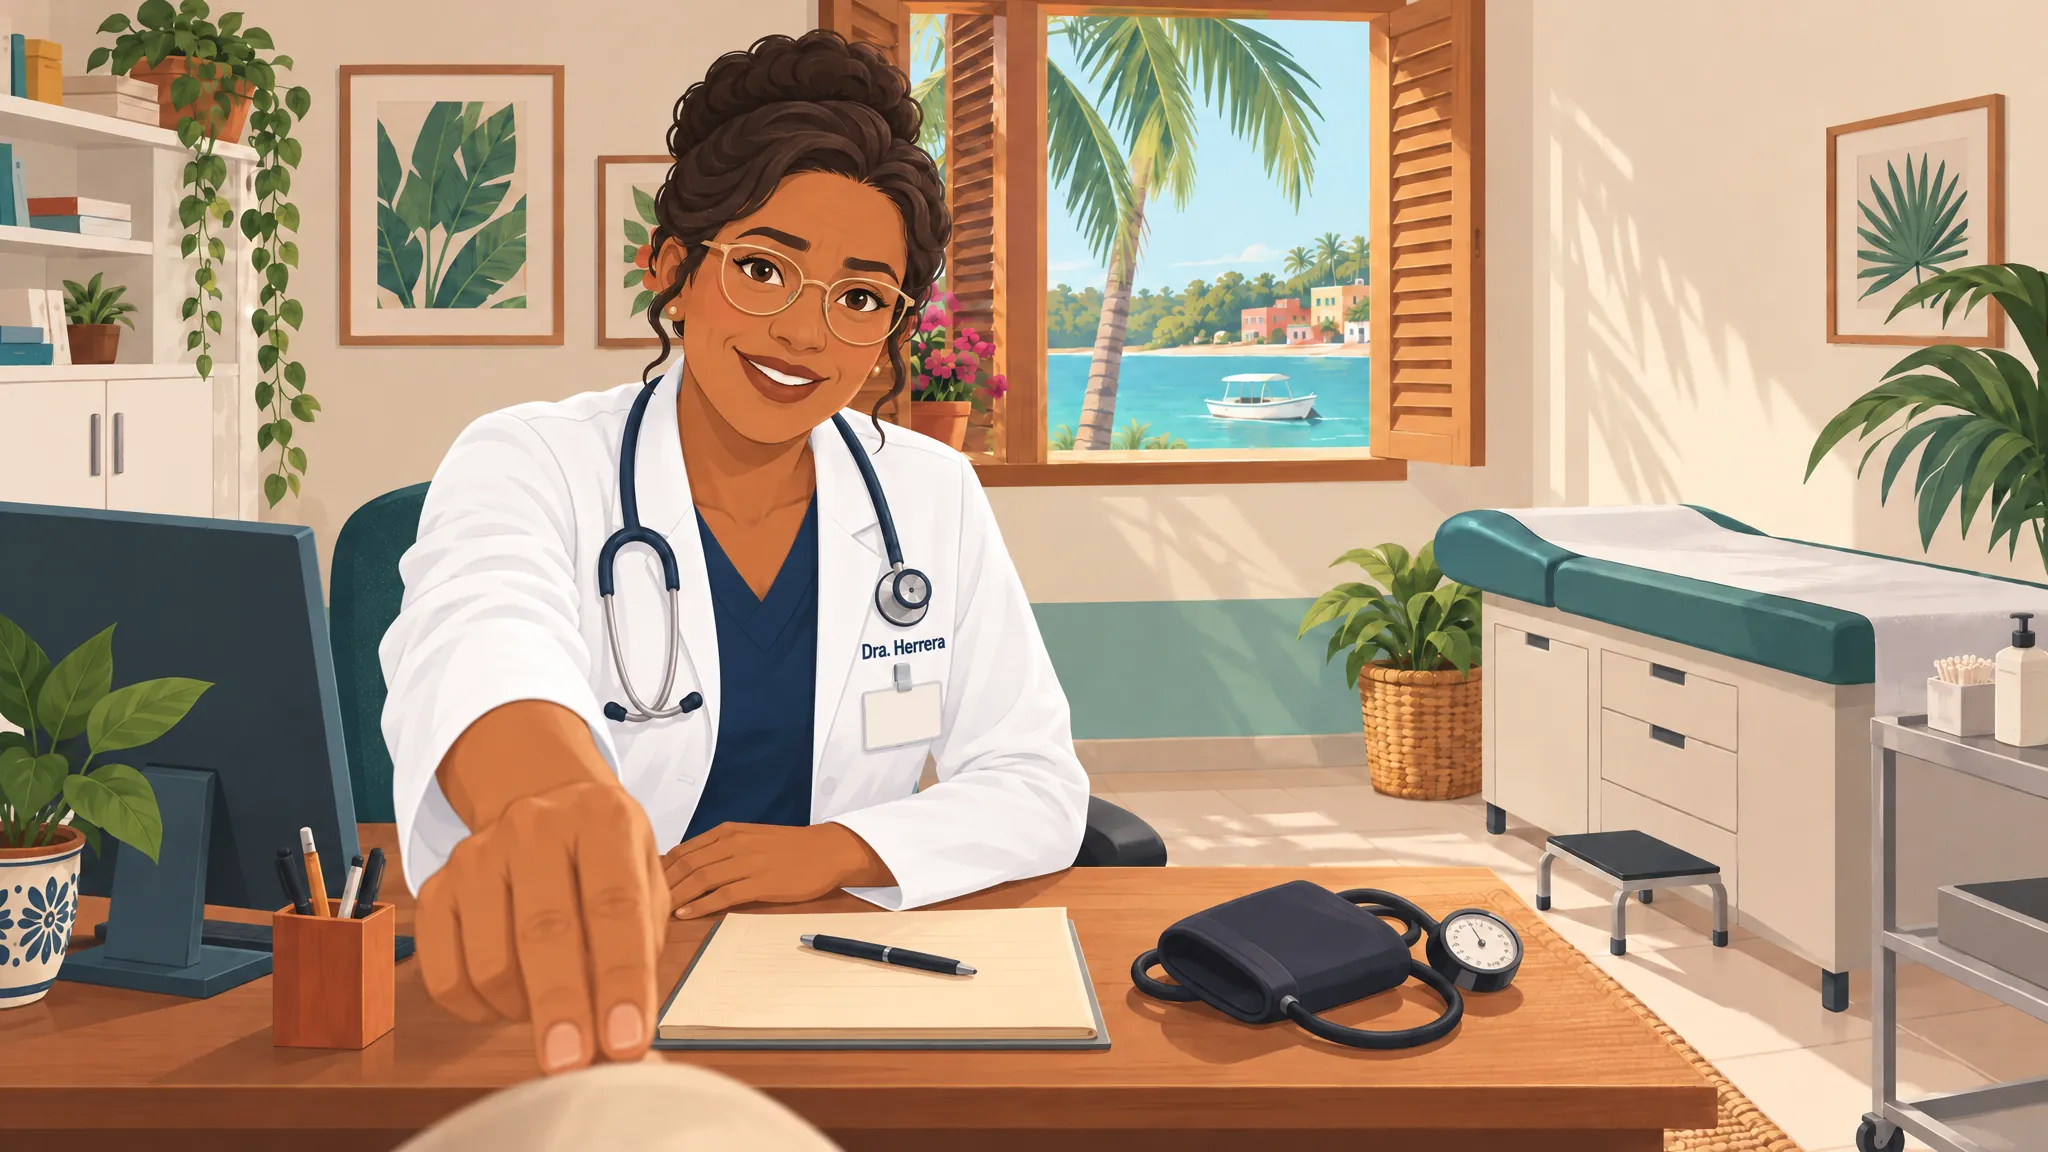
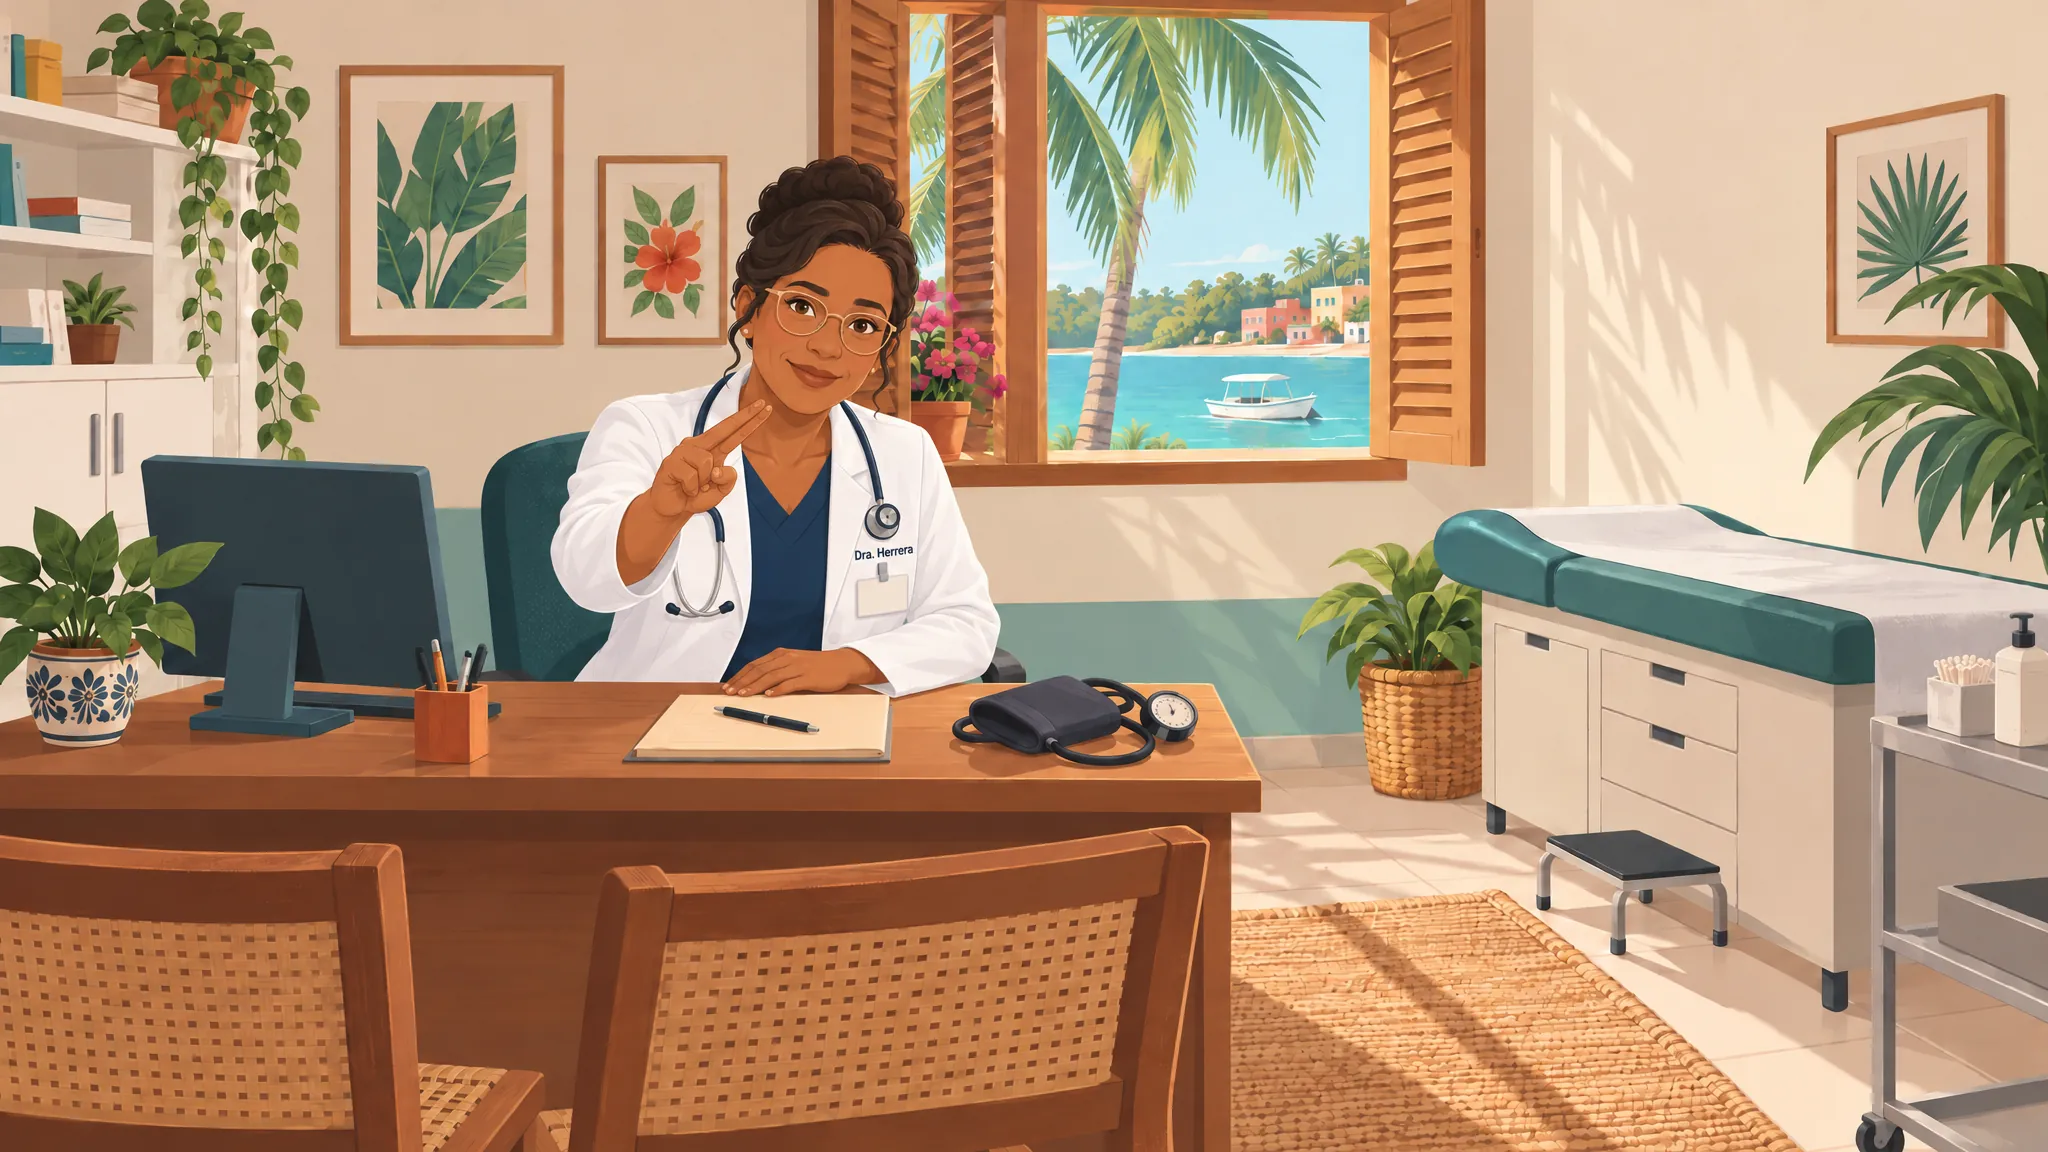
Spanish pictures: the two redos, and the guide's final numbers
The doctor's "hurt" (the camera back where it belongs, nothing of the
learner) and the customs goodbye (Agente Medina, not Itzel), made in a
Batch API run ($0.07). The guide: the status (579 pictures in 51
scenes, $40.59 of the $75 stop: regular API 506 requests $33.30,
batch 209 $7.29, and why), batch turnarounds, the later places, the
pictures' weight.

diff --git a/docs/es/PICTURES.md b/docs/es/PICTURES.md
@@ -14,16 +14,20 @@ retries fit.
 | The situation pictures (next) | `public/scenes-es/<situation>/<name>.webp`, mapped by `src/editions/es/ui/scene-data/<situation>.json` |
 | The originals (PNG), their sidecars (prompt, references, usage) and the ledger | the work folder, by default `/private/tmp/claude-501/-Users-gabrieledirmontaite/b3b443be-6044-459a-94fe-bcc6886dd88c/scratchpad/pictures/` (`ES_PICTURES_DIR` sets another) |
 
-## Status (4 Nov 2026)
+## Status (5 Nov 2026)
 
-- **The key works; no organization verification was asked for.** The test picture (the zócalo, `medium`, one
-  reference) cost $0.0253 and showed the style carries over (section 2).
-- **The references are made** (section 4): 58 portraits and 42 places, checked one by one, with the owner's name-tag
-  exception on 21 workers. **Spent: $7.12** of the $75 stop (the ledger).
-- **Next:** the situation pictures from the planners' manifests (`tools/es-pictures/manifests/s*.json`, chapters
-  1–7: 478 pictures, 54 of them first pictures): the first pictures through the regular API, checked one by one; the
-  edits in one Batch API run; a review and redos; then the wiring (section 8). Chapters 8 and 9 (about 100 pictures)
-  follow when their conversations land.
+- **Every conversation has its pictures:** 50 conversations, 51 scenes (the date has Santiago's and Camila's),
+  **579 situation pictures** (chapters 1–7: 478; chapters 8–9: 101), each checked (section 5 "Checking a picture"),
+  wired into the game (section 8). The references: 58 portraits and 47 places (section 4).
+- **Spent: $40.59** of the $75 stop (the owner approved $82), 715 requests. Regular API: 506 requests, $33.30
+  (the test $0.03; the references, their redos and name tags: 132, $7.43; situation pictures: 373, $25.85 = 75 first
+  pictures and their redo, 298 edits). Batch API: 209 situation pictures, $7.29 (158 + 49 edits, 2 redos).
+- **Why most went through the regular API:** the first pictures by design (each checked before its edits); then the
+  edits' one big batch failed at once on the organization's queue limit (1,000,000 enqueued tokens per model), the
+  first queue-sized batch (158) showed no progress for 45 minutes (it finished after 1.5 hours), and the rest was
+  made through the regular API that night. From the owner's word on 5 Nov, everything after the first pictures went
+  in batches (the chapter 8–9 edits: 49 in 18 minutes; the redos).
+- **Next:** the owner's look at the pictures in the game; the lead's export to the course.
 
 ## 1. OpenAI's image API (read on 4 Nov 2026)
 
@@ -135,6 +139,8 @@ For comparison, the guide's per-picture table for GPT Image 2 (1024² / 1024×15
   batches. Our first batch (420 edits, about 2.1 M tokens with outputs) failed at once with `token_limit_exceeded`:
   "Enqueued token limit reached for gpt-image-2.5-sunburst in organization … Limit: 1,000,000 enqueued tokens."
   So pictures go in queue-sized batches, one after the other (`batch.py run`, about 158 edits each).
+- **Turnaround seen on 4–5 Nov 2026:** 158 edits took 1 h 36 min (the status said 0 done for the first 45 minutes,
+  then jumped); 49 edits took 18 minutes; 2 redos took 33 minutes.
 
 ### Rate limits and errors
 
@@ -403,6 +409,13 @@ empty: the situation's first picture puts the person there. Places inside a bigg
 | `place/casa-diego-interior` | Inside Diego and Natalia's house | s85-dinner, p30-start-over | setting: `place/casa-diego`; the window made dusk (an edit) |
 | `place/call-center` | A customer service office | s80-support-call, p26-complaint |  |
 
+Later, for the situation pictures, 9 more places (5 Nov 2026), each in its own small manifest
+(`tools/es-pictures/manifests/refs-plan-a.json` … `refs-plan-e.json`): the learner's kitchen at Las Palmas
+(`place/departamento-cocina`), Doña Margarita's drive with her red convertible (`place/casa-margarita`), the meeting
+room and Elena's office at Línea Clara (`place/sala-de-juntas`, `place/oficina-elena`), Diego and Natalia's door on a
+sunny morning (`place/casa-diego-dia`, an edit of the dusk one), and four for the chapter 1–7 planners
+(`place/taxi-interior`, `place/consultorio-dental`, `place/oficina-cocina`, `place/casa-diego-interior`, in refs.json).
+
 Redone or fixed: 6 places (above) and none of the portraits apart from the name tags. Cost: portraits $3.11 + name
 tags $1.16, places $2.82 (with the redos and fixes), the test $0.03: **$7.12 in all** (128 requests).
 
@@ -580,4 +593,8 @@ files, same checks):
 - The ledger and the full-size originals live in the work folder (`/private/tmp/…/scratchpad/pictures/`), which a
   restart of the Mac can clear: copy it somewhere lasting (for example `~/english-world/.art-originals/es/`, which git
   ignores) once the pictures are done.
+- **Weight:** the Spanish pictures average 178 kB (Maple Harbor's 85 kB: their fine grain compresses less well), 95 MB
+  for the 579 (plus 13 MB of references, which no build ships). A scene loads its 9–14 pictures, about 2 MB. If that
+  is too heavy for the course's repository or for phones, `convert.py --quality 65` saves about 28%; 1600 px wide
+  would save more (scene-walk accepts 1600–2048).
 - To compare the spending with OpenAI's own count: the dashboard's Usage page, against `python3 tools/es-pictures/ledger.py`.
